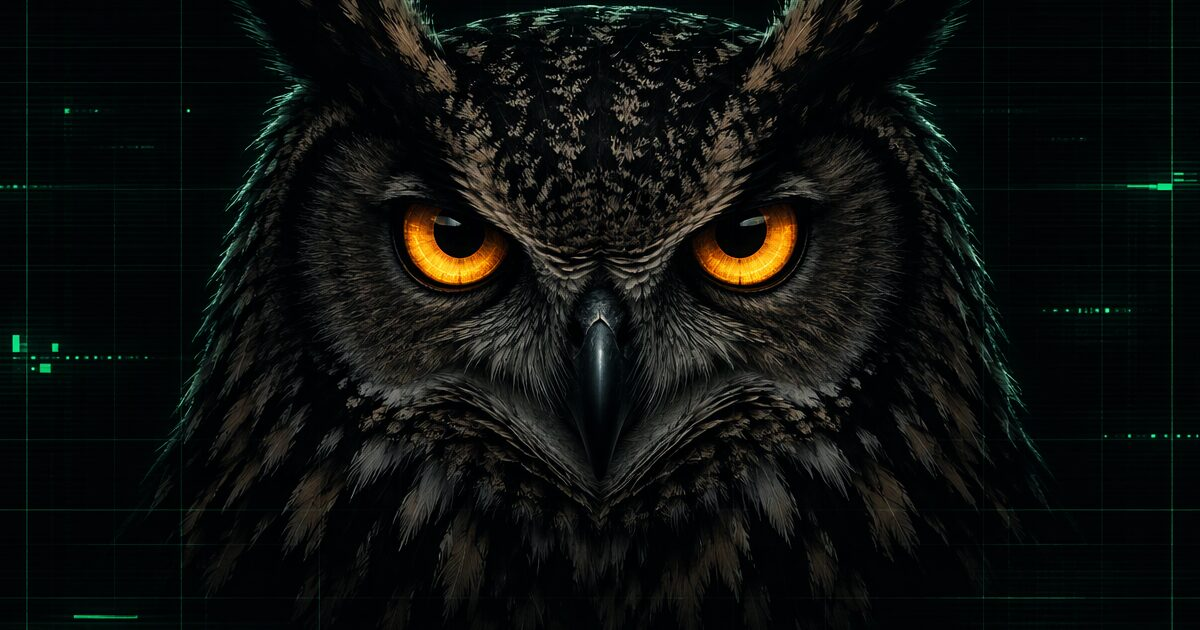
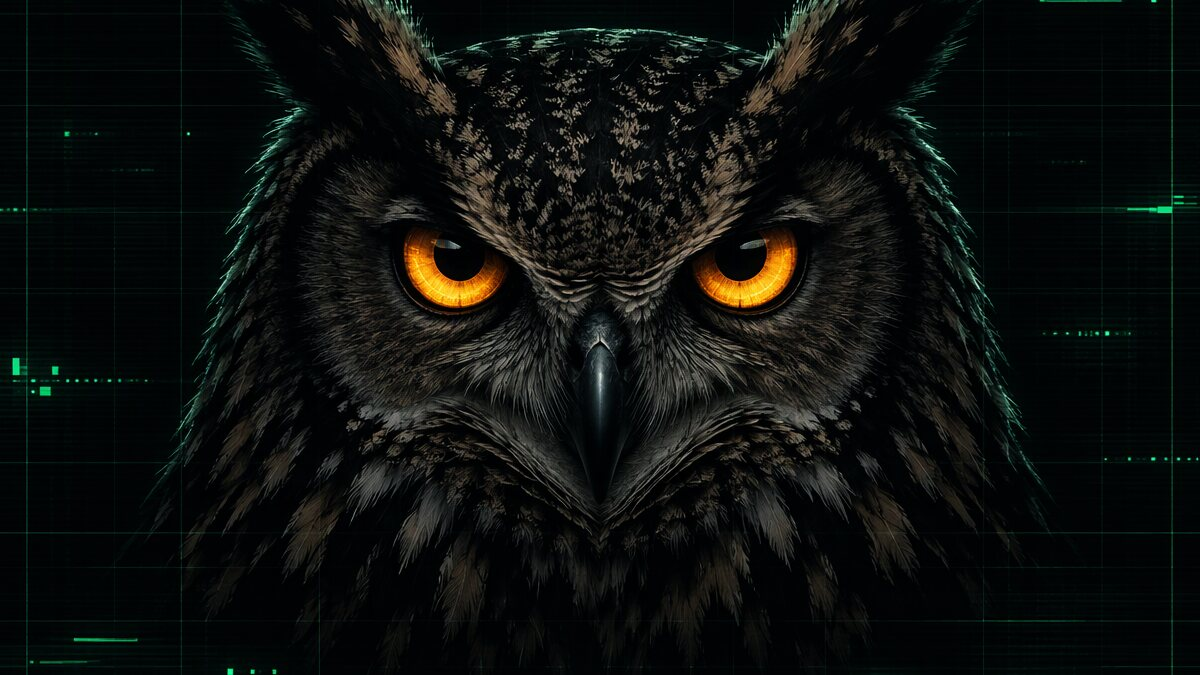
docs: OG образ 1200x675 + размери/alt в meta — за картички във Facebook и X

diff --git a/index.html b/index.html
@@ -18,10 +18,15 @@
 <meta property="og:url" content="https://buhal.sbs/">
 <meta property="og:locale" content="bg_BG">
 <meta property="og:image" content="https://buhal.sbs/buhal-og.jpg">
+<meta property="og:image:width" content="1200">
+<meta property="og:image:height" content="675">
+<meta property="og:image:type" content="image/jpeg">
+<meta property="og:image:alt" content="Бухал (Bubo bubo) — buchnative">
 <meta name="twitter:card" content="summary_large_image">
 <meta name="twitter:title" content="buchnative — счетоводството не спи">
 <meta name="twitter:description" content="Счетоводна програма за българския пазар на езика Baga върху нативна база rocksbaga.">
 <meta name="twitter:image" content="https://buhal.sbs/buhal-og.jpg">
+<meta name="twitter:image:alt" content="Бухал (Bubo bubo) — buchnative">
 
 <script type="application/ld+json">
 {
